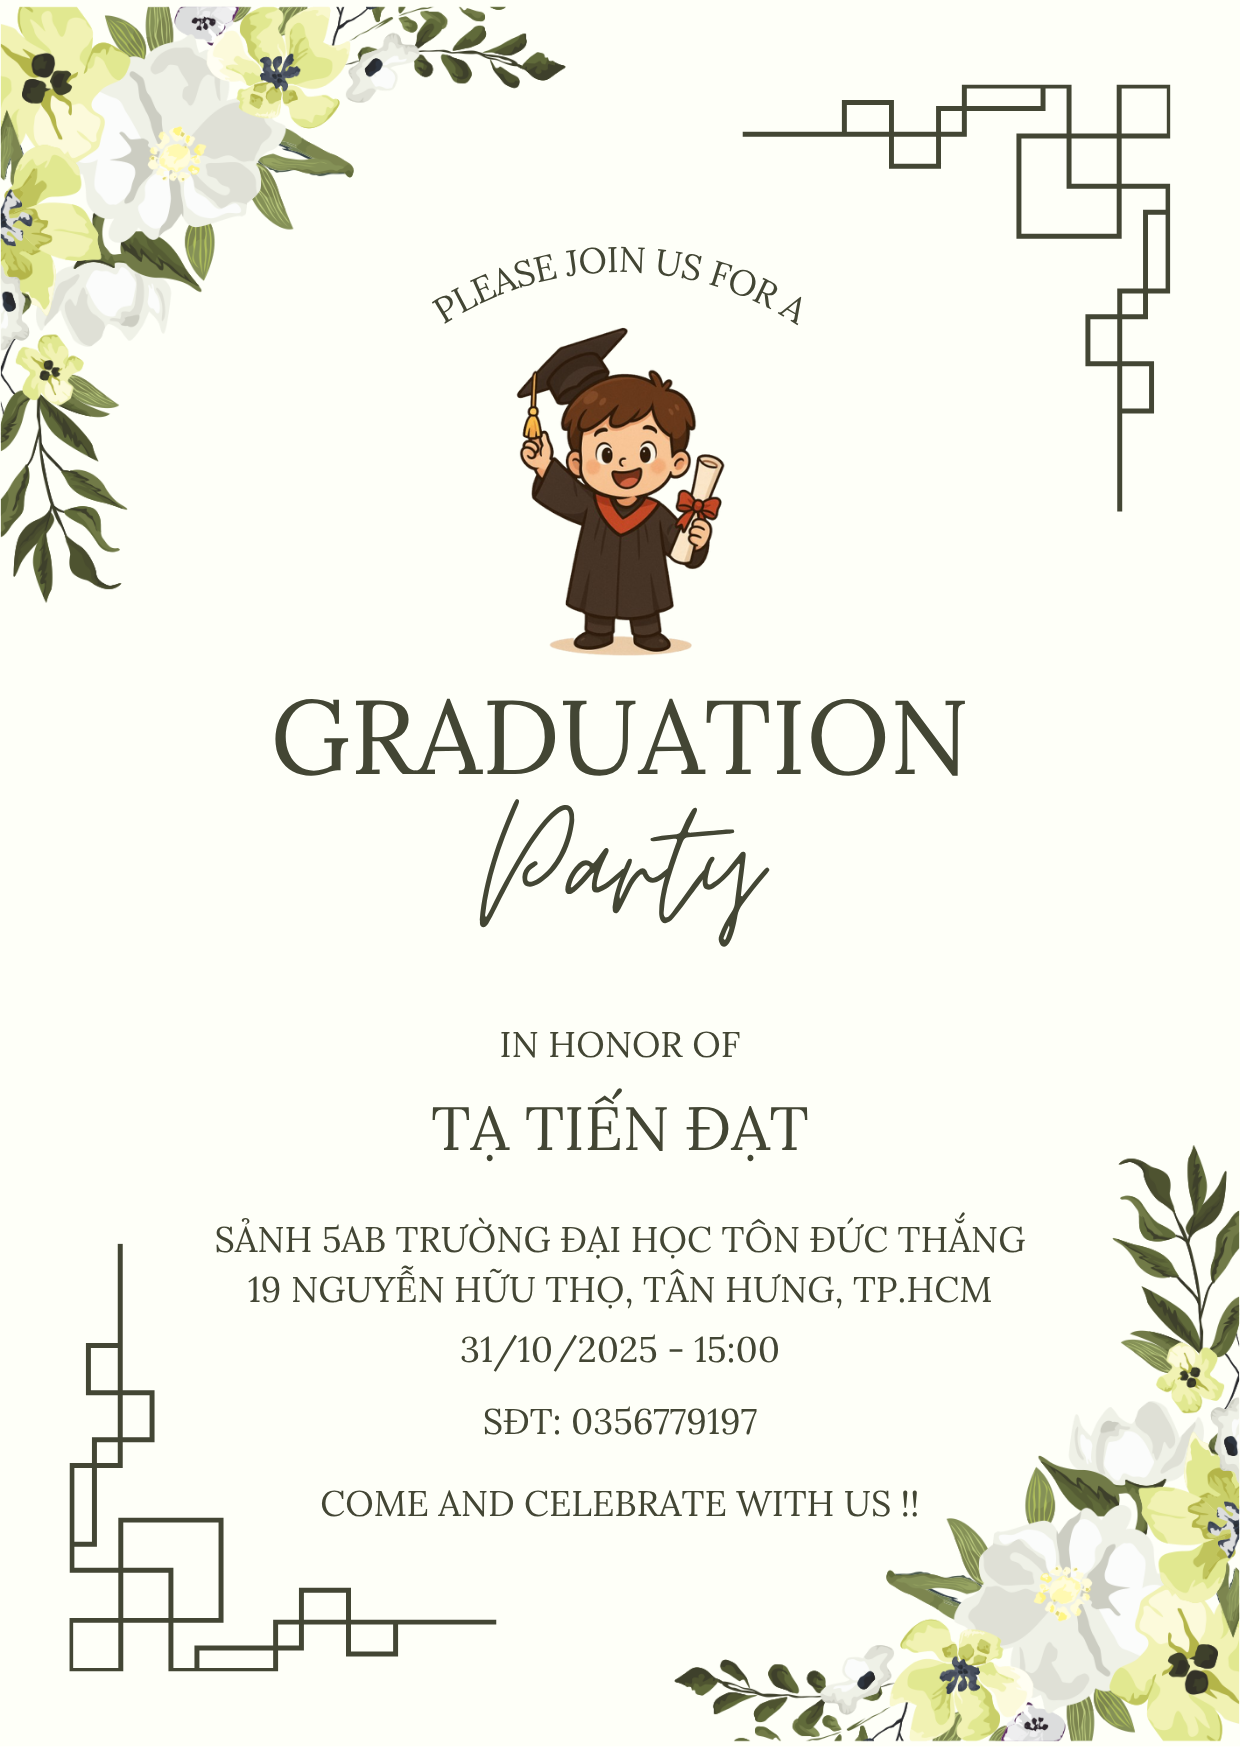
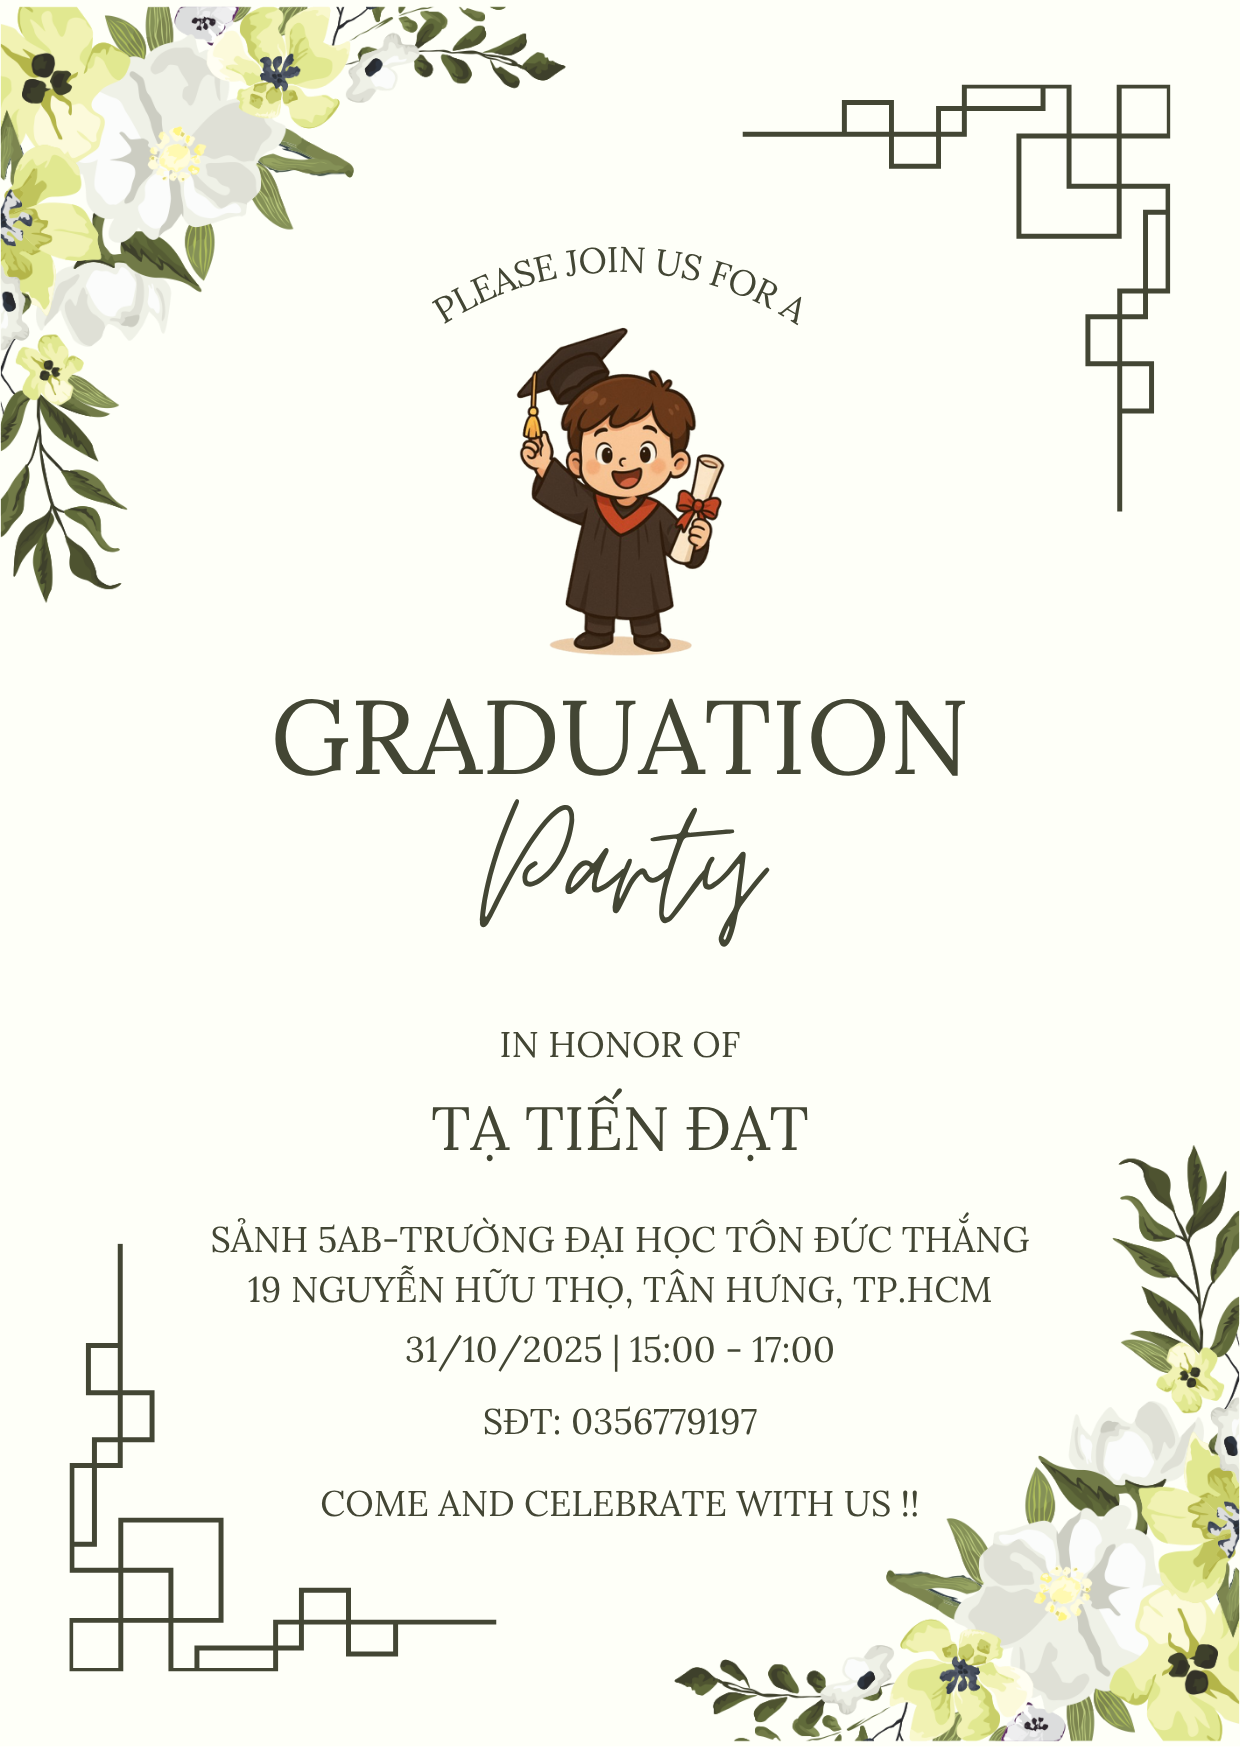
update img

Changed region(s): [[0.1839, 0.6796, 0.7048, 0.8032], [0.7355, 0.6796, 0.8274, 0.7414]]

diff --git a/index.html b/index.html
@@ -63,12 +63,20 @@
     <div class="transparent"></div>
     <section id="section-2" style="padding: 5px" class="normal-section full-page location">
       <div class="text-centre centre-section">
-        <p style="margin-bottom: 5px;">Địa điểm:<br>Trường Đại Học Tôn Đức Thắng<br>Sảnh 5AB - 19 Nguyễn Hữu Thọ, phường Tân Hưng, TP.HCM</p>
-        <p>Thời gian: 31/10/2025 - 15:00 PM</p>
+        <p style="margin-bottom: 5px;"><b>Địa điểm:</b><br>Trường Đại Học Tôn Đức Thắng<br>Sảnh 5AB - 19 Nguyễn Hữu Thọ,
+          phường Tân Hưng, TP.HCM</p>
+        <p style="margin-bottom: 5px;"><b>Thời gian:</b> 31/10/2025 | 15:00 - 17:00</p>
+        <p style="margin-bottom: 5px;"><b>Liên hệ:</b> 0356779197 (Gặp Tiến Đạt)</p>
+        <p class="mobile-centre">
+          <a href="#section-4" class="underlineEffect">
+            Kéo xuống dưới để tải thiệp mời !!!
+          </a>
+        </p>
         <div class="memory-item">
-          <img style="width: 100%;" src="./assets/1.png" alt="Hình ảnh 1"  />
-          <img style="width: 100%;" src="./assets/2.png" alt="Hình ảnh 2"  />
-          <img style="width: 100%;" src="./assets/3.png" alt="Hình ảnh 3"  />
+          <img style="width: 100%;" src="./assets/1.png" alt="Hình ảnh 1" />
+          <img style="width: 100%;" src="./assets/2.png" alt="Hình ảnh 2" />
+          <img style="width: 100%;" src="./assets/3.png" alt="Hình ảnh 3" />
+          <img style="width: 100%;" src="./assets/4.png" alt="Hình ảnh 4" />
         </div>
         <!-- <div class="shakeys-front">
             <img
@@ -164,12 +172,14 @@
   <div class="closing-page" id="img-memorabilla-b">
     <!-- <div class="closing-empty"></div> -->
     <section id="section-4" class="acrylic-section centre-section" style="height: 100%;">
-      <h1 style="letter-spacing: 5px; text-align: center; margin-top: 50px;padding: 10px;" class="xlarge-text">Mong được gặp cậu.</h1>
+      <h1 style="letter-spacing: 5px; text-align: center; margin-top: 50px;padding: 10px;" class="xlarge-text">Mong được
+        gặp cậu.</h1>
       <img src="./assets/gradutaion_guy.png" alt="An image of Tiro." id="tiro-glad">
       <p id="invited_title" style="margin-bottom: 0">Thân gửi</p>
       <p id="invited_name" style="margin-top: 5px;">...</p>
       <div class="">
-        <a class="underlineEffect" style="margin-bottom: 70px;display:block;" href="./assets/graduation_invitation.png" download>Tải thiệp mời chính thức</a>
+        <a class="underlineEffect" style="margin-bottom: 70px;display:block;" href="./assets/graduation_invitation.png"
+          download>Tải thiệp mời chính thức !</a>
       </div>
     </section>
     <!-- <div class="closing-empty"></div> -->
